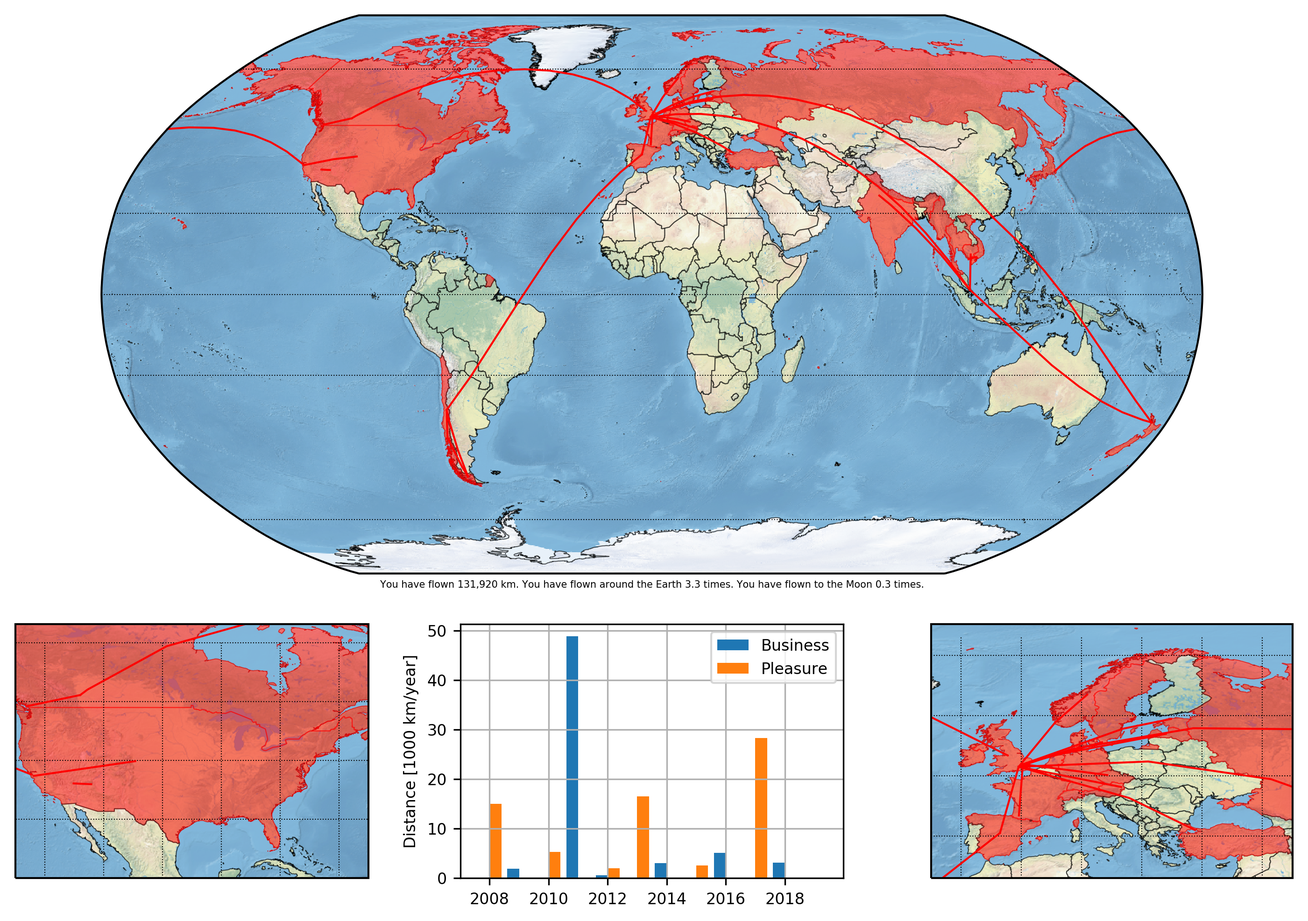
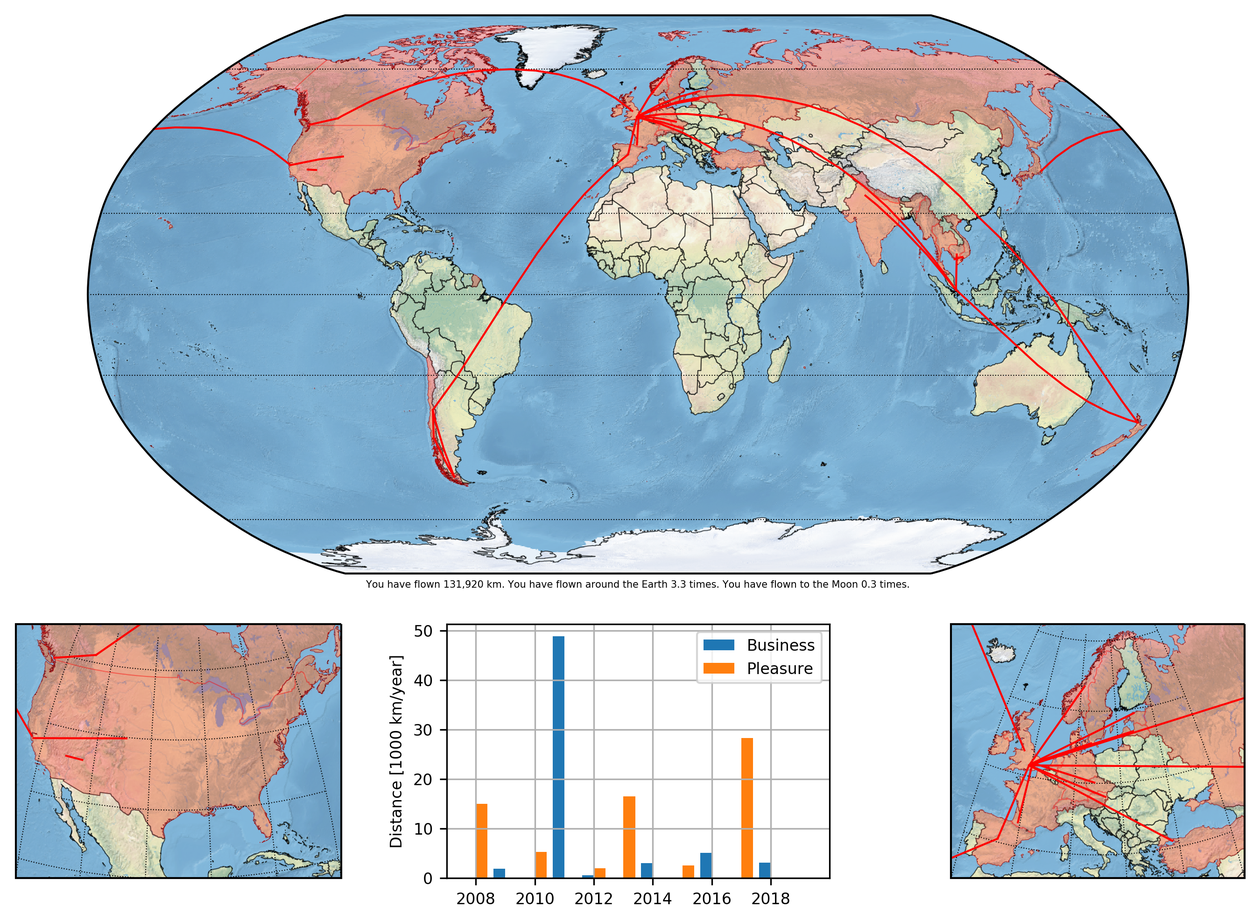
change sub-plots to be Orthographic; tweaked colours; tweaked extents; improved gridlines

diff --git a/run.py b/run.py
@@ -15,6 +15,8 @@ def run(flightLog = "/this/path/does/not/exist", extraCountries = [], renames = 
     import pyguymer
 
     # Load sub-functions ...
+    from .calc_horizontal_gridlines import calc_horizontal_gridlines
+    from .calc_vertical_gridlines import calc_vertical_gridlines
     from .coordinates_of_IATA import coordinates_of_IATA
     from .country_of_IATA import country_of_IATA
     from .load_airport_list import load_airport_list
@@ -24,16 +26,16 @@ def run(flightLog = "/this/path/does/not/exist", extraCountries = [], renames = 
 
     # Set extents of the two sub-plots ...
     extl = [
-        -125.0, # left
-         -65.0, # right
-          20.0, # bottom
-          60.0  # top
+        -120.0, # left
+         -70.0, # right
+          17.0, # bottom
+          55.0  # top
     ]
     extr = [
-        -15.0, # left
-         45.0, # right
+        -10.0, # left
+         40.0, # right
          33.0, # bottom
-         73.0  # top
+         71.0  # top
     ]
 
     # Set the half-width of the bars on the histogram ...
@@ -55,7 +57,10 @@ def run(flightLog = "/this/path/does/not/exist", extraCountries = [], renames = 
     axl = matplotlib.pyplot.subplot2grid(
         (3, 3),
         (2, 0),
-        projection = cartopy.crs.PlateCarree()
+        projection = cartopy.crs.Orthographic(
+            central_longitude = 0.5 * (extl[0] + extl[1]),
+             central_latitude = 0.5 * (extl[2] + extl[3])
+        )
     )
     axm = matplotlib.pyplot.subplot2grid(
         (3, 3),
@@ -64,7 +69,10 @@ def run(flightLog = "/this/path/does/not/exist", extraCountries = [], renames = 
     axr = matplotlib.pyplot.subplot2grid(
         (3, 3),
         (2, 2),
-        projection = cartopy.crs.PlateCarree()
+        projection = cartopy.crs.Orthographic(
+            central_longitude = 0.5 * (extr[0] + extr[1]),
+             central_latitude = 0.5 * (extr[2] + extr[3])
+        )
     )
     axt.set_global()
     axl.set_extent(extl)
@@ -133,19 +141,25 @@ def run(flightLog = "/this/path/does/not/exist", extraCountries = [], renames = 
     )
 
     # Add notable lines manually ...
-    for xloc in [-120.0, -110.0, -100.0, -90.0, -80.0, -70.0]:
+    for xloc in xrange(int(round(extl[0])), int(round(extl[1])) + 1):
+        if xloc % 10 != 0:
+            continue
+        xlocs, ylocs = calc_vertical_gridlines(xloc, extl)
         axl.plot(
-            [xloc, xloc],
-            [extl[2], extl[3]],
+            xlocs,
+            ylocs,
             transform = cartopy.crs.PlateCarree(),
                 color = "black",
             linewidth = 0.5,
             linestyle = ":"
         )
-    for yloc in [20.0, 30.0, 40.0, 50.0, 60.0]:
+    for yloc in xrange(int(round(extl[2])), int(round(extl[3])) + 1):
+        if yloc % 10 != 0:
+            continue
+        xlocs, ylocs = calc_horizontal_gridlines(yloc, extl)
         axl.plot(
-            [extl[0], extl[1]],
-            [yloc, yloc],
+            xlocs,
+            ylocs,
             transform = cartopy.crs.PlateCarree(),
                 color = "black",
             linewidth = 0.5,
@@ -153,19 +167,25 @@ def run(flightLog = "/this/path/does/not/exist", extraCountries = [], renames = 
         )
 
     # Add notable lines manually ...
-    for xloc in [-10.0, 0.0, 10.0, 20.0, 30.0, 40.0]:
+    for xloc in xrange(int(round(extr[0])), int(round(extr[1])) + 1):
+        if xloc % 10 != 0:
+            continue
+        xlocs, ylocs = calc_vertical_gridlines(xloc, extr)
         axr.plot(
-            [xloc, xloc],
-            [extr[2], extr[3]],
+            xlocs,
+            ylocs,
             transform = cartopy.crs.PlateCarree(),
                 color = "black",
             linewidth = 0.5,
             linestyle = ":"
         )
-    for yloc in [40.0, 50.0, 60.0, 70.0]:
+    for yloc in xrange(int(round(extr[2])), int(round(extr[3])) + 1):
+        if yloc % 10 != 0:
+            continue
+        xlocs, ylocs = calc_horizontal_gridlines(yloc, extr)
         axr.plot(
-            [extr[0], extr[1]],
-            [yloc, yloc],
+            xlocs,
+            ylocs,
             transform = cartopy.crs.PlateCarree(),
                 color = "black",
             linewidth = 0.5,
@@ -271,7 +291,11 @@ def run(flightLog = "/this/path/does/not/exist", extraCountries = [], renames = 
     axm.yaxis.grid(True)
 
     # Add annotation ...
-    label = "You have flown {0:,d} km. You have flown around the Earth {1:.1f} times. You have flown to the Moon {2:.1f} times.".format(int(total_dist), total_dist / (2.0 * math.pi * 6371.009), total_dist / 384402.0)
+    label = (
+        "You have flown {0:,d} km."
+        " You have flown around the Earth {1:.1f} times."
+        " You have flown to the Moon {2:.1f} times."
+    ).format(int(total_dist), total_dist / (2.0 * math.pi * 6371.009), total_dist / 384402.0)
     axt.text(
         0.5,
         -0.02,
@@ -308,7 +332,7 @@ def run(flightLog = "/this/path/does/not/exist", extraCountries = [], renames = 
             axt.add_geometries(
                 record.geometry,
                 cartopy.crs.PlateCarree(),
-                    alpha = 0.5,
+                    alpha = 0.25,
                     color = "red",
                 facecolor = "red",
                 linewidth = 0.5
@@ -316,7 +340,7 @@ def run(flightLog = "/this/path/does/not/exist", extraCountries = [], renames = 
             axl.add_geometries(
                 record.geometry,
                 cartopy.crs.PlateCarree(),
-                    alpha = 0.5,
+                    alpha = 0.25,
                     color = "red",
                 facecolor = "red",
                 linewidth = 0.5
@@ -324,7 +348,7 @@ def run(flightLog = "/this/path/does/not/exist", extraCountries = [], renames = 
             axr.add_geometries(
                 record.geometry,
                 cartopy.crs.PlateCarree(),
-                    alpha = 0.5,
+                    alpha = 0.25,
                     color = "red",
                 facecolor = "red",
                 linewidth = 0.5
